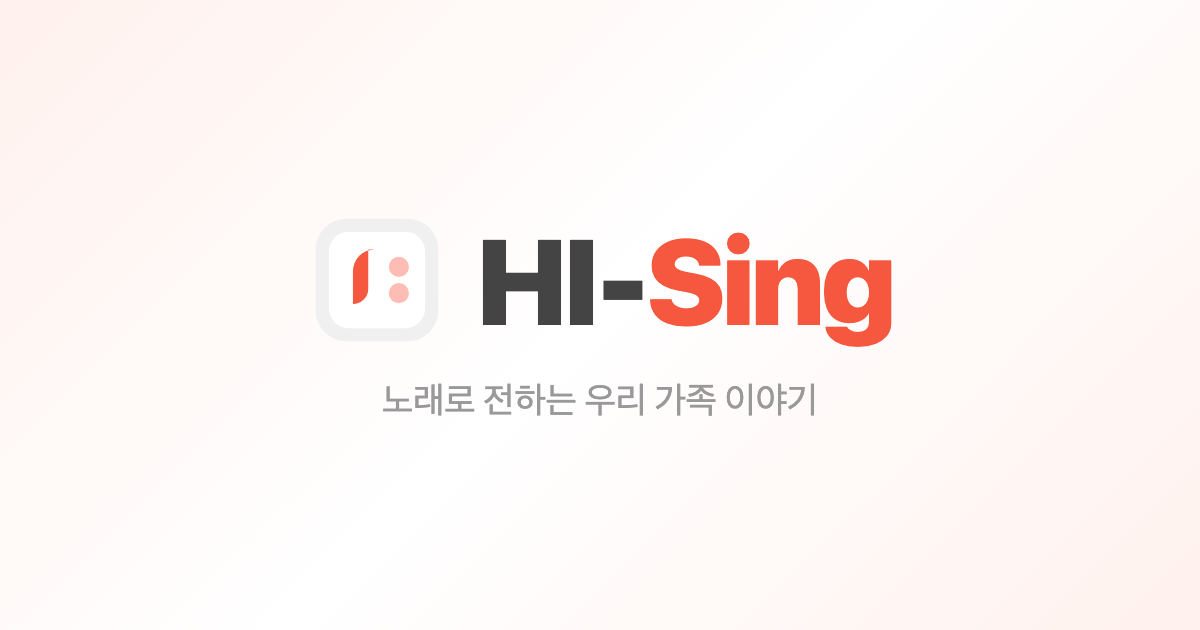
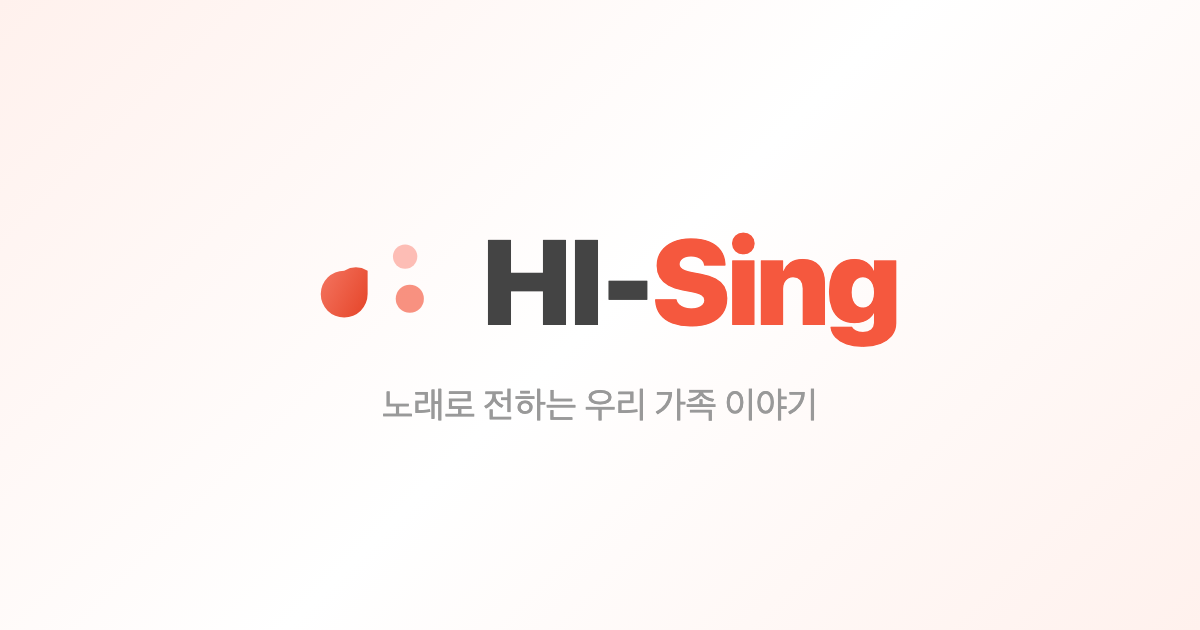
로고 변형(음표+원 2개 더 우아하게) + 비네트 전체 폭 + 앨범 프로스티드 글래스 + 말풍선 꼬리
- 로고: 프레임 제거, J형 음표에 그라데이션, 오른쪽 원 크기/색 리듬감 추가
- 비네트: PhoneMockup 폭 → 뷰포트 전체 폭 (w-screen, left-1/2 -translate-x-1/2)
- 앨범 카드: 전체 그라데이션 → 하단 프로스티드 글래스 바만
- 공감 말풍선: 삼각형 꼬리 형태로 복원 (가독성 + 기본 형태)

Changed region(s): [[0.4008, 0.3619, 0.7708, 0.5429], [0.3083, 0.6032, 0.6783, 0.6635], [0.2467, 0.3921, 0.37, 0.5127]]

diff --git a/src/sections/HomeTab.tsx b/src/sections/HomeTab.tsx
@@ -181,11 +181,11 @@ function PhoneMockup() {
   const cardGap = 70
   return (
     <div className="relative mt-12 sm:mt-20 overflow-visible group/phone h-[440px] sm:h-[560px]" onMouseEnter={() => setPaused(true)} onMouseLeave={() => setPaused(false)}>
-      {/* 좌우 흰색 비네트 — 가운데(핸드폰)만 투명, 양쪽으로 갈수록 흰색 */}
+      {/* 좌우 흰색 비네트 — 뷰포트 전체 폭, 가운데(핸드폰)만 투명 */}
       <div
-        className="absolute inset-0 pointer-events-none z-20"
+        className="absolute top-0 bottom-0 pointer-events-none z-20 left-1/2 -translate-x-1/2 w-screen"
         style={{
-          background: 'linear-gradient(to right, #ffffff 0%, #ffffff 12%, rgba(255,255,255,0) 38%, rgba(255,255,255,0) 62%, #ffffff 88%, #ffffff 100%)',
+          background: 'linear-gradient(to right, #ffffff 0%, #ffffff 25%, rgba(255,255,255,0) 42%, rgba(255,255,255,0) 58%, #ffffff 75%, #ffffff 100%)',
         }}
       />
       {/* 메인색 원형 그라데이션 — 반응형 */}
@@ -220,10 +220,10 @@ function PhoneMockup() {
                     } cursor-pointer`}
                   >
                     <img src={a.img} alt={a.title} className="w-full h-full object-cover" style={{ filter: 'sepia(0.15) saturate(1) brightness(1.12) contrast(0.98) hue-rotate(-3deg)' }} />
-                    <div className="absolute inset-0" style={{ background: 'linear-gradient(to top, rgba(245,88,62,0.9) 0%, rgba(245,88,62,0.4) 40%, rgba(245,88,62,0.1) 100%)' }} />
-                    <div className="absolute bottom-0 left-0 right-0 p-4">
-                      <p className="text-white font-bold text-sm leading-tight">{a.title}</p>
-                      <p className="text-white/70 text-xs mt-1">{a.to}</p>
+                    {/* 프로스티드 글래스 바 — 하단만 */}
+                    <div className="absolute bottom-0 left-0 right-0 backdrop-blur-md bg-white/25 border-t border-white/20 px-4 py-2.5">
+                      <p className="text-white font-bold text-sm leading-tight drop-shadow">{a.title}</p>
+                      <p className="text-white/90 text-xs mt-0.5 drop-shadow">{a.to}</p>
                     </div>
                   </div>
                 ))}
@@ -412,13 +412,15 @@ export function HomeTab({ onNavigate }: HomeTabProps) {
             ].map((b, i) => (
               <FadeIn key={i} delay={i * 0.15}>
                 <div className={`flex ${b.align === 'right' ? 'justify-end' : 'justify-start'}`}>
-                  <div className={`flex items-end gap-1.5 max-w-[85%] ${b.align === 'right' ? 'flex-row-reverse' : 'flex-row'}`}>
-                    <div className="bg-white/10 backdrop-blur-sm rounded-2xl rounded-bl-md px-5 py-4 border border-white/15" style={b.align === 'right' ? { borderRadius: '1rem 1rem 0.25rem 1rem' } : { borderRadius: '1rem 1rem 1rem 0.25rem' }}>
+                  <div className="relative max-w-[85%]">
+                    <div className="bg-white/10 backdrop-blur-sm rounded-2xl px-6 py-5 border border-white/15">
                       <p className="text-white text-[15px] leading-relaxed">{b.text}</p>
                     </div>
-                    <div className="flex flex-col gap-0.5 mb-1">
-                      <div className="w-1.5 h-1.5 rounded-full bg-white/10" />
-                      <div className="w-1 h-1 rounded-full bg-white/10" />
+                    {/* 말풍선 꼬리 */}
+                    <div className={`absolute -bottom-2 ${b.align === 'left' ? 'left-6' : 'right-6'}`}>
+                      <svg width="16" height="10" viewBox="0 0 16 10" className={b.align === 'right' ? 'scale-x-[-1]' : ''}>
+                        <path d="M0 0 L8 10 L16 0 Z" fill="rgba(255,255,255,0.1)" stroke="rgba(255,255,255,0.15)" strokeWidth="0.5" />
+                      </svg>
                     </div>
                   </div>
                 </div>

diff --git a/src/sections/Navigation.tsx b/src/sections/Navigation.tsx
@@ -59,11 +59,15 @@ export function Navigation({ activeTab, onTabChange }: NavigationProps) {
               className="flex items-center gap-2 group"
             >
               <svg className="w-8 h-8 flex-shrink-0" viewBox="0 0 32 32" fill="none">
-                <rect x="2" y="2" width="28" height="28" rx="7" fill="#F0F0F0"/>
-                <rect x="5" y="5" width="22" height="22" rx="4.5" fill="#FFFFFF"/>
-                <path d="M14 9 L14 18 A3.5 3.5 0 0 1 10.5 21.5 L10.5 14 A5 5 0 0 1 15.5 9 L14 9 Z" fill="#F5583E"/>
-                <circle cx="21" cy="13" r="2.3" fill="#FDBDB5"/>
-                <circle cx="21" cy="19" r="2.3" fill="#FDBDB5"/>
+                <defs>
+                  <linearGradient id="navNoteGrad" x1="0%" y1="0%" x2="100%" y2="100%">
+                    <stop offset="0%" stopColor="#F88371"/>
+                    <stop offset="100%" stopColor="#E54428"/>
+                  </linearGradient>
+                </defs>
+                <path d="M14 5 L14 19 A5 5 0 0 1 9 24 A5 5 0 0 1 9 14 A5 5 0 0 1 14 14 L14 5 Z" fill="url(#navNoteGrad)"/>
+                <circle cx="22" cy="11" r="2.6" fill="#FDBDB5"/>
+                <circle cx="23" cy="20" r="3" fill="#F5583E" opacity="0.65"/>
               </svg>
               <span className={`text-lg font-bold transition-colors ${isScrolled || !isTransparent ? 'text-ink' : 'text-white'}`}>
                 하이싱 <span className="text-xs text-ink-faint ml-1">HI-Sing</span>

diff --git a/src/sections/Footer.tsx b/src/sections/Footer.tsx
@@ -15,11 +15,15 @@ export function Footer() {
           </p>
           <div className="flex items-center gap-2">
             <svg className="w-6 h-6 sm:w-7 sm:h-7 flex-shrink-0" viewBox="0 0 32 32" fill="none">
-              <rect x="2" y="2" width="28" height="28" rx="7" fill="#F0F0F0"/>
-              <rect x="5" y="5" width="22" height="22" rx="4.5" fill="#FFFFFF"/>
-              <path d="M14 9 L14 18 A3.5 3.5 0 0 1 10.5 21.5 L10.5 14 A5 5 0 0 1 15.5 9 L14 9 Z" fill="#F5583E"/>
-              <circle cx="21" cy="13" r="2.3" fill="#FDBDB5"/>
-              <circle cx="21" cy="19" r="2.3" fill="#FDBDB5"/>
+              <defs>
+                <linearGradient id="footerNoteGrad" x1="0%" y1="0%" x2="100%" y2="100%">
+                  <stop offset="0%" stopColor="#F88371"/>
+                  <stop offset="100%" stopColor="#E54428"/>
+                </linearGradient>
+              </defs>
+              <path d="M14 5 L14 19 A5 5 0 0 1 9 24 A5 5 0 0 1 9 14 A5 5 0 0 1 14 14 L14 5 Z" fill="url(#footerNoteGrad)"/>
+              <circle cx="22" cy="11" r="2.6" fill="#FDBDB5"/>
+              <circle cx="23" cy="20" r="3" fill="#F5583E" opacity="0.65"/>
             </svg>
             <span className="text-sm sm:text-base font-bold text-white">
               하이싱 <span className="text-[10px] sm:text-xs text-neutral-500 ml-1">HI-Sing</span>
